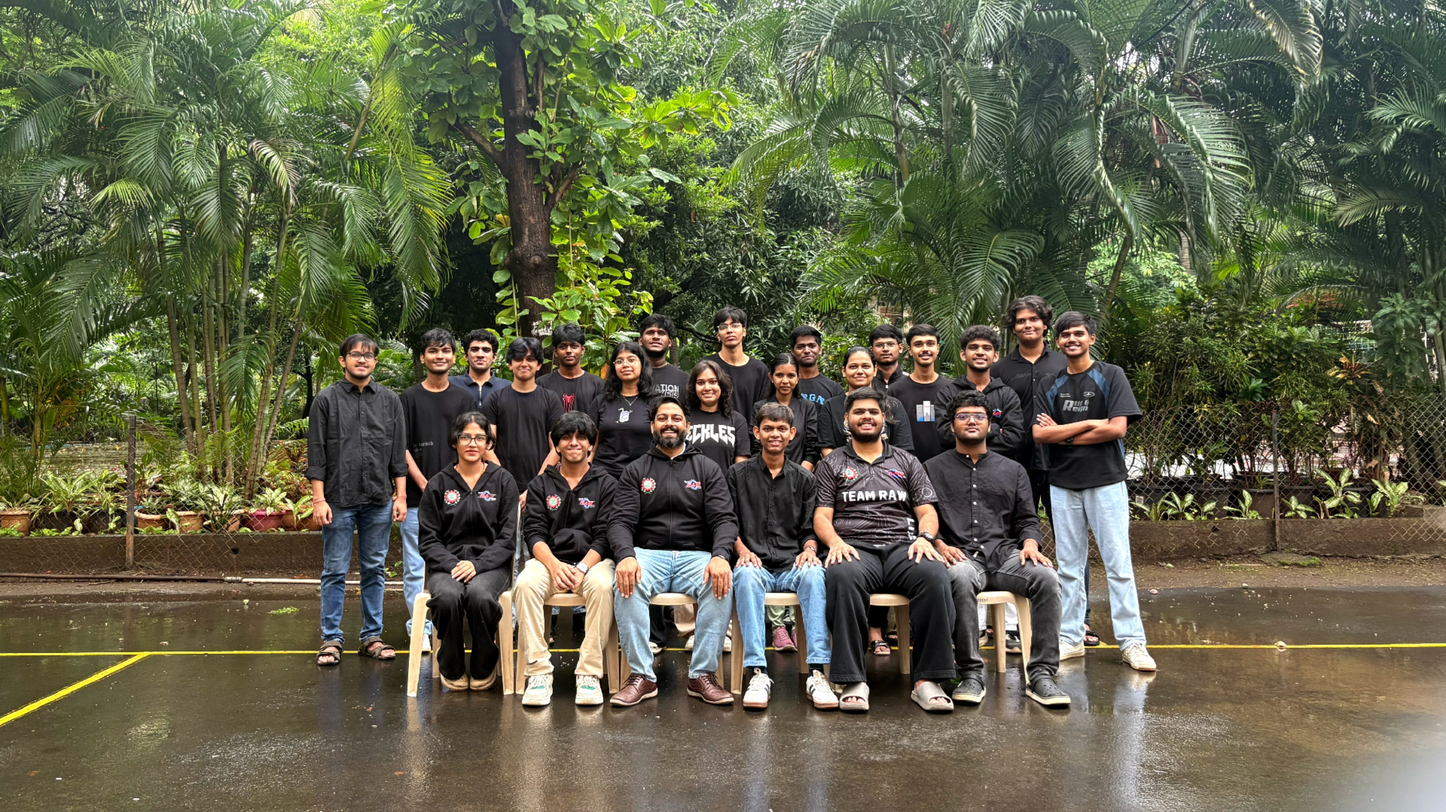
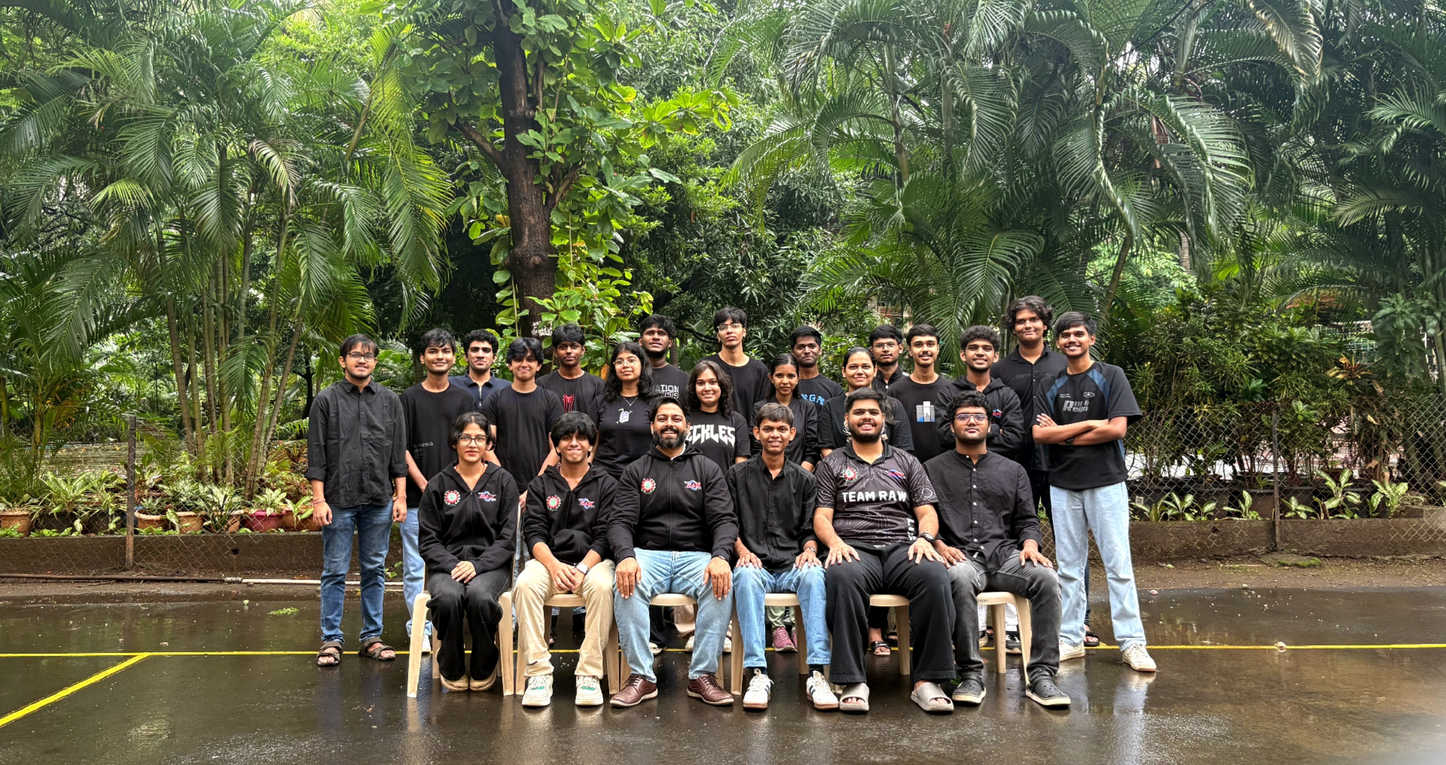
feat: move Kelvin Chetty before Krishna Maurya and update image assets

diff --git a/src/data/teamData.ts b/src/data/teamData.ts
@@ -515,8 +515,8 @@ export const teamMembers: TeamMember[] = [
     domain: 'software',
     category: 'members',
     imageUrl: '/aryanr.jpg',
-    email: '',
-    linkedin: '',
+    email: 'aryanraul22@student.sfit.ac.in',
+    linkedin: 'https://www.linkedin.com/in/aryanraul/',
     createdAt: '2026-08-15',
   },
   {
@@ -539,8 +539,8 @@ export const teamMembers: TeamMember[] = [
     domain: 'software',
     category: 'members',
     imageUrl: '/soham.jpg',
-    email: '',
-    linkedin: '',
+    email: 'salekarsoham059@student.sfit.ac.in',
+    linkedin: 'https://www.linkedin.com/in/soham-salekar-2007a8364/',
     createdAt: '2026-08-15',
   },
   {
@@ -593,18 +593,30 @@ export const teamMembers: TeamMember[] = [
   },
   {
     _id: 'new_member8',
-    name: 'Krishna Maurya',
+    name: 'Kelvin Chetty',
     role: 'EXECUTIVE MEMBER',
     department: 'Technical',
     domain: 'software',
     category: 'members',
-    imageUrl: '/krishna.jpg',
+    imageUrl: '/kelvin.jpg',
     email: '',
     linkedin: '',
     createdAt: '2026-08-15',
   },
   {
     _id: 'new_member9',
+    name: 'Krishna Maurya',
+    role: 'EXECUTIVE MEMBER',
+    department: 'Technical',
+    domain: 'software',
+    category: 'members',
+    imageUrl: '/krishna.jpg',
+    email: 'krishnamaurya6907@student.sfit.ac.in',
+    linkedin: 'https://www.linkedin.com/in/krishna-maurya-98a819382/',
+    createdAt: '2026-08-15',
+  },
+  {
+    _id: 'new_member10',
     name: 'Naaz Husseni',
     role: 'EXECUTIVE MEMBER',
     department: 'Technical',
@@ -616,7 +628,7 @@ export const teamMembers: TeamMember[] = [
     createdAt: '2026-08-15',
   },
   {
-    _id: 'new_member10',
+    _id: 'new_member11',
     name: 'Pragya Mishra',
     role: 'EXECUTIVE MEMBER',
     department: 'Technical',
@@ -628,19 +640,19 @@ export const teamMembers: TeamMember[] = [
     createdAt: '2026-08-15',
   },
   {
-    _id: 'new_member11',
+    _id: 'new_member12',
     name: 'Divyesh Singh',
     role: 'EXECUTIVE MEMBER',
     department: 'Technical',
     domain: 'software',
     category: 'members',
     imageUrl: '/divyesh.jpg',
-    email: '',
-    linkedin: '',
+    email: 'divyeshsingh26@student.sfit.ac.in',
+    linkedin: 'https://www.linkedin.com/in/divyesh-singh-b18511397/',
     createdAt: '2026-08-15',
   },
   {
-    _id: 'new_member12',
+    _id: 'new_member13',
     name: 'Krish Dankhara',
     role: 'EXECUTIVE MEMBER',
     department: 'Technical',
@@ -652,7 +664,7 @@ export const teamMembers: TeamMember[] = [
     createdAt: '2026-08-15',
   },
   {
-    _id: 'new_member13',
+    _id: 'new_member14',
     name: 'Tanish',
     role: 'EXECUTIVE MEMBER',
     department: 'Technical',
@@ -664,37 +676,25 @@ export const teamMembers: TeamMember[] = [
     createdAt: '2026-08-15',
   },
   {
-    _id: 'new_member14',
+    _id: 'new_member15',
     name: 'Darshan',
     role: 'EXECUTIVE MEMBER',
     department: 'Technical',
     domain: 'software',
     category: 'members',
     imageUrl: '/darshan.jpg',
-    email: '',
-    linkedin: '',
+    email: 'tanishgaddam0706@student.sfit.ac.in',
+    linkedin: 'https://www.linkedin.com/in/tanishgaddam/',
     createdAt: '2026-08-15',
   },
   {
-    _id: 'new_member15',
+    _id: 'new_member16',
     name: 'Aditya',
     role: 'EXECUTIVE MEMBER',
     department: 'Technical',
     domain: 'software',
     category: 'members',
     imageUrl: '/aditya.jpg',
-    email: '',
-    linkedin: '',
-    createdAt: '2026-08-15',
-  },
-  {
-    _id: 'new_member16',
-    name: 'Kelvin Chetty',
-    role: 'EXECUTIVE MEMBER',
-    department: 'Technical',
-    domain: 'software',
-    category: 'members',
-    imageUrl: '/kelvin.jpg',
     email: '',
     linkedin: '',
     createdAt: '2026-08-15',
